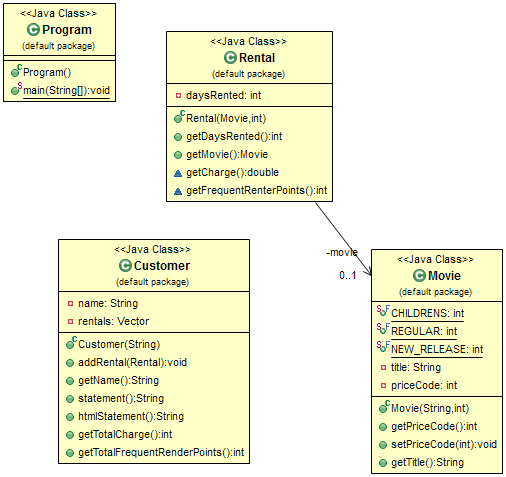
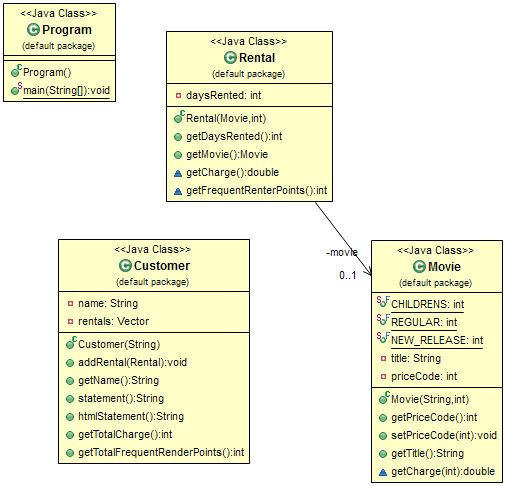
Moved double getCharge(int daysRented) to Movie.java

diff --git a/src/Movie.java b/src/Movie.java
@@ -21,4 +21,25 @@ public class Movie {
     public String getTitle (){
         return title;
     }
+    
+	double getCharge(int daysRented) {
+		double thisAmount = 0;
+		//determine amounts for each line
+		switch (getPriceCode()) {
+		    case Movie.REGULAR:
+		    	thisAmount += 2;
+		    	if (daysRented > 2)
+		        	thisAmount += (daysRented - 2) * 1.5;
+		    	break;
+		    case Movie.NEW_RELEASE:
+		    	thisAmount += daysRented * 3;
+		    	break;
+		    case Movie.CHILDRENS:
+		    	thisAmount += 1.5;
+		    	if (daysRented > 3)
+		        	thisAmount += (daysRented - 3) * 1.5;
+		    	break;
+		}
+		return thisAmount;
+	}
 }
